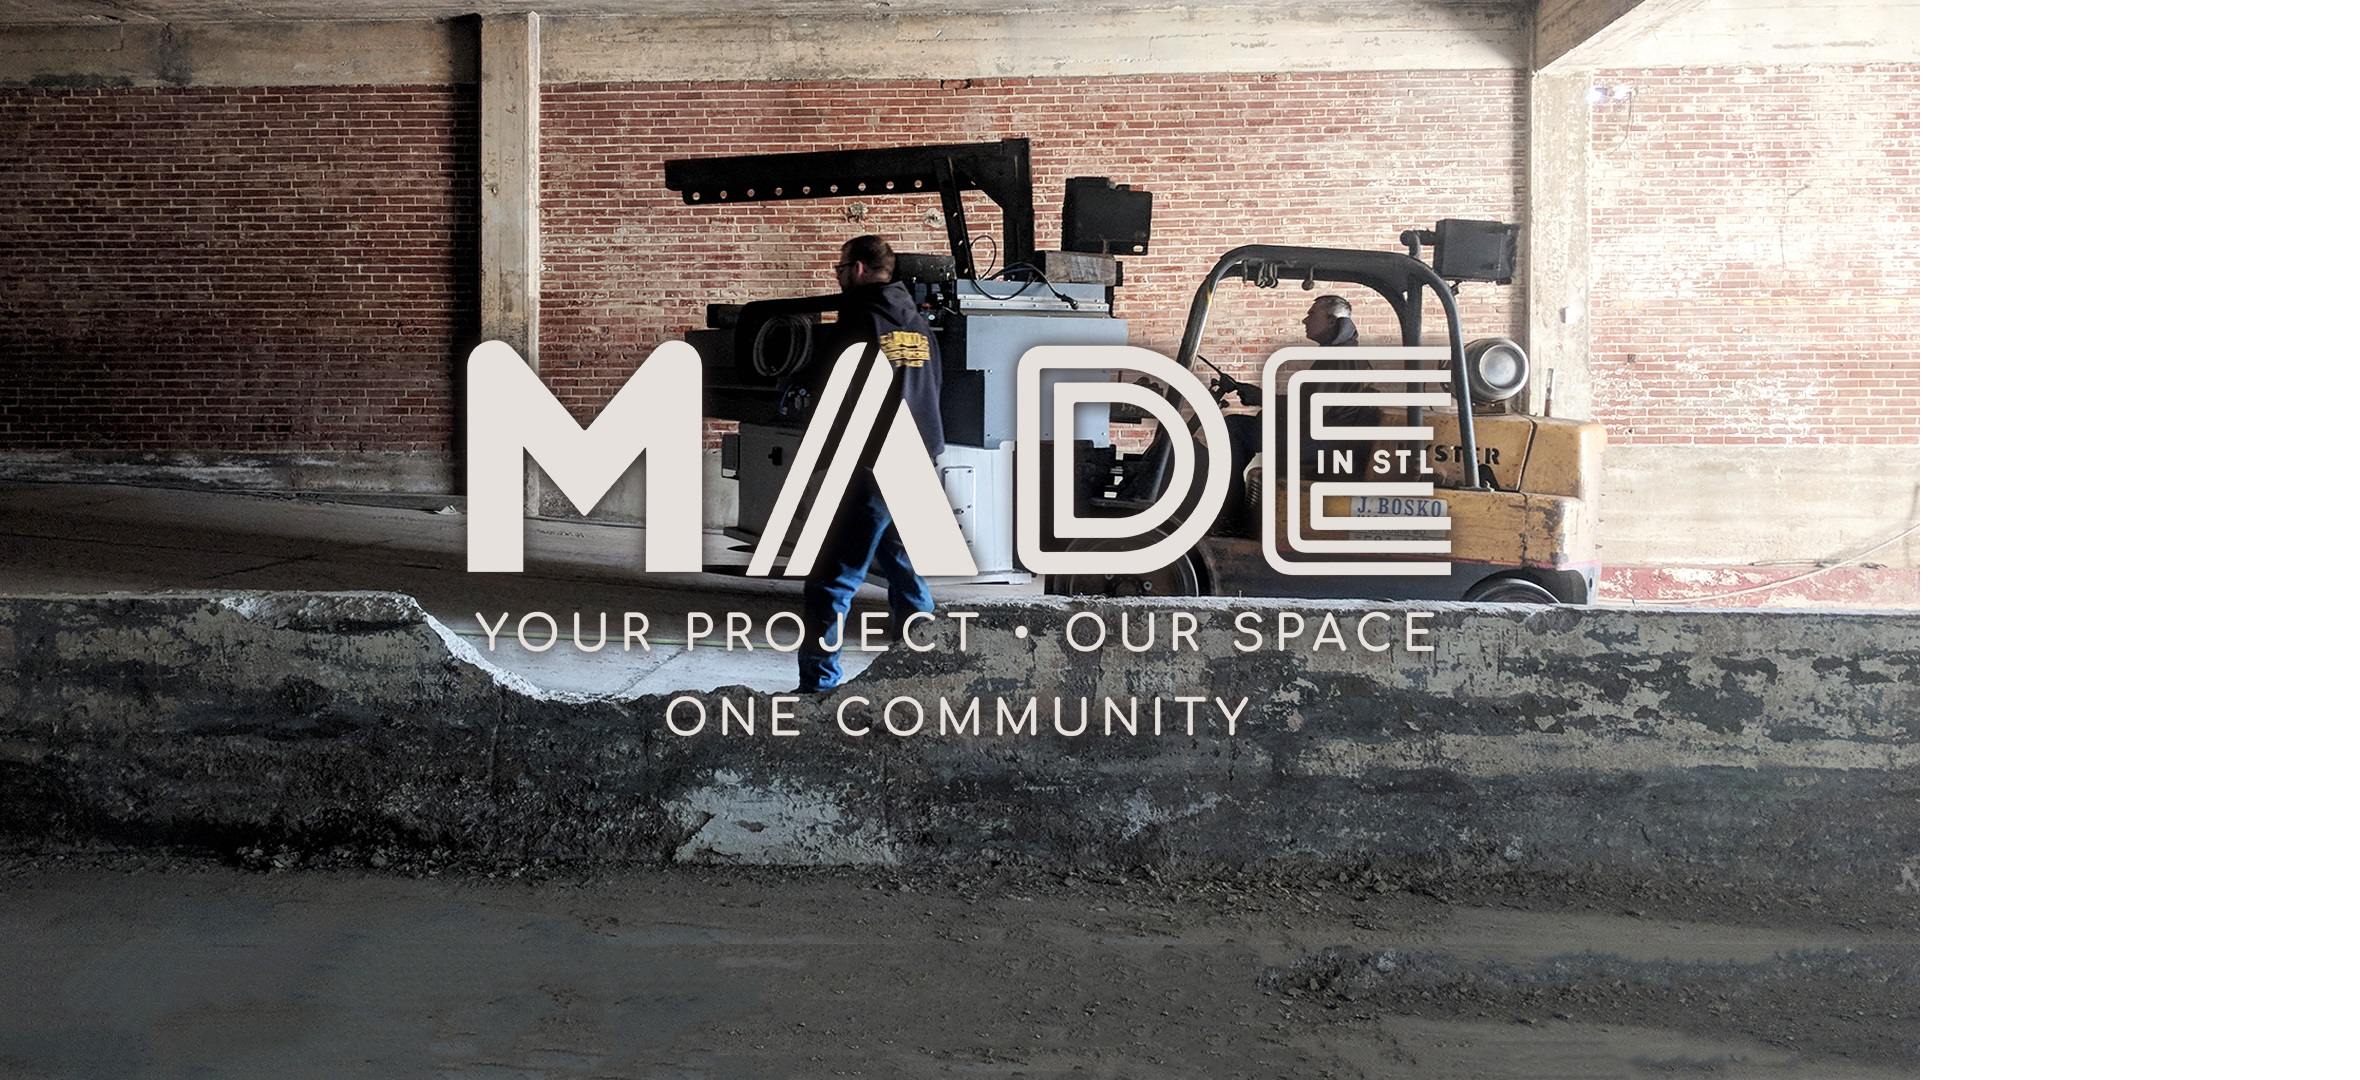
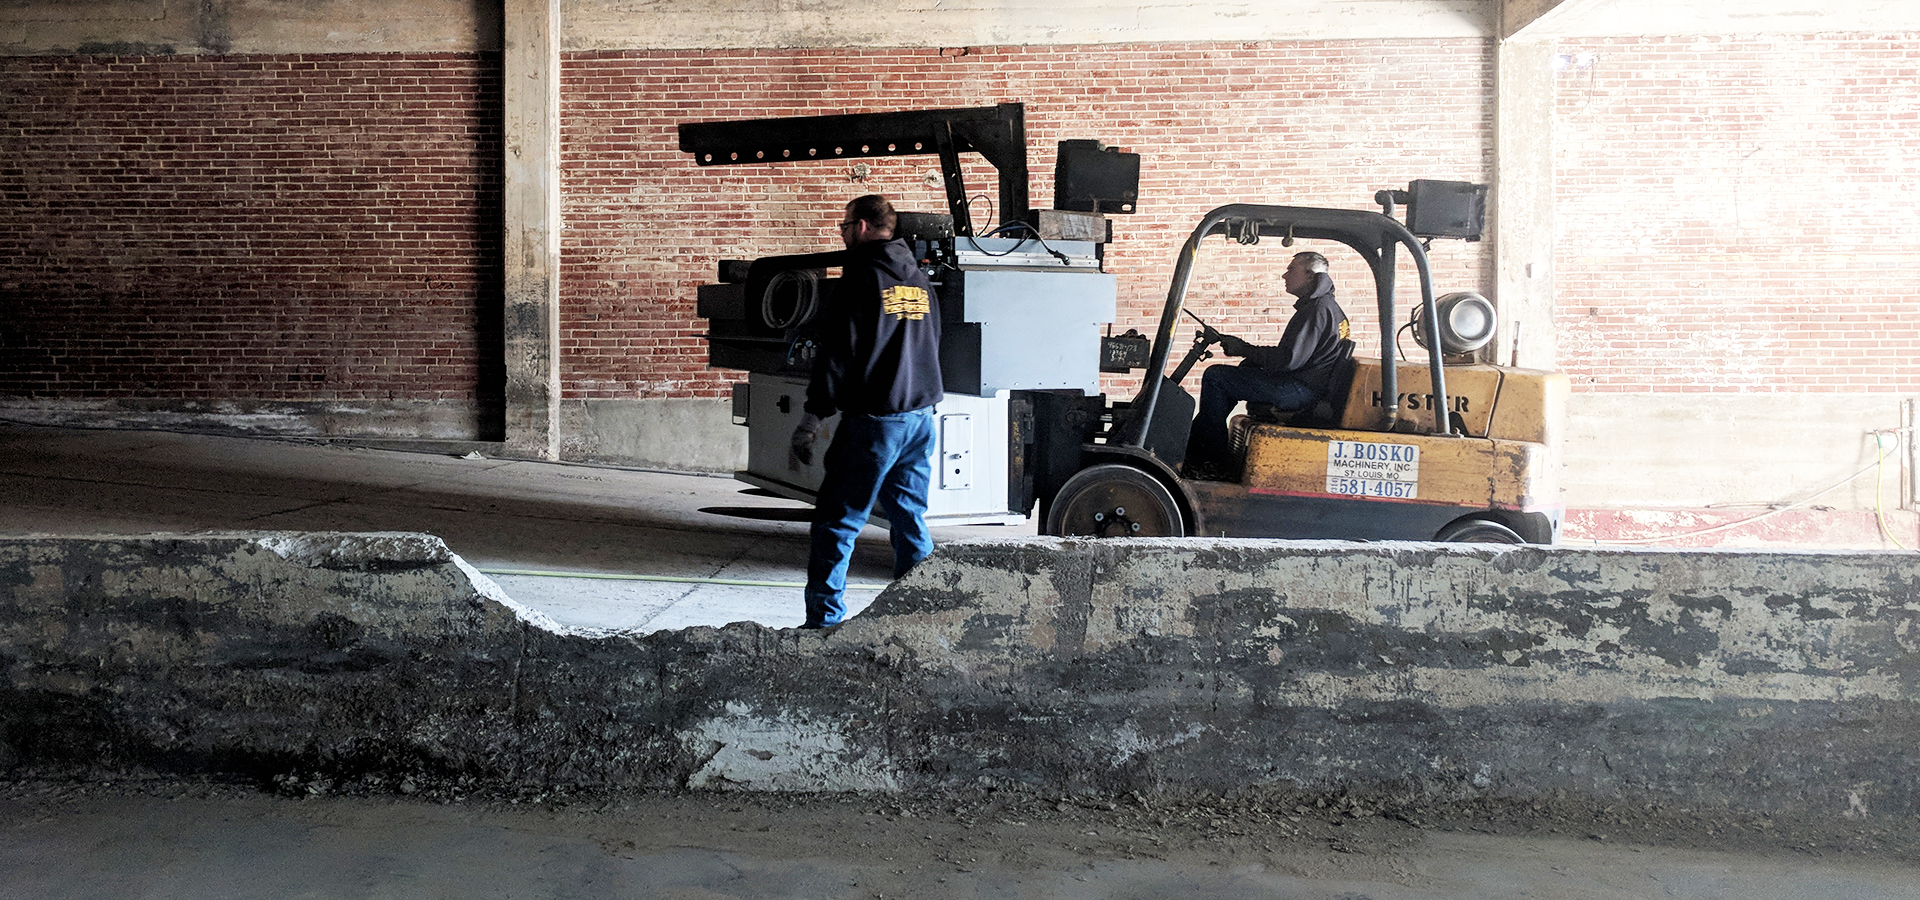
OHHHHH YAAAAA
You owe me 1 whole coffee

diff --git a/assets/js/main.js b/assets/js/main.js
@@ -1,174 +1,111 @@
 /*
-	Eventually by HTML5 UP
-	html5up.net | @ajlkn
-	Free for personal and commercial use under the CCA 3.0 license (html5up.net/license)
+  Eventually by HTML5 UP
+  html5up.net | @ajlkn
+  Free for personal and commercial use under the CCA 3.0 license (html5up.net/license)
 */
 
 (function() {
 
-	"use strict";
+  "use strict";
 
-	// Methods/polyfills.
+  // Methods/polyfills.
 
-		// classList | (c) @remy | github.com/remy/polyfills | rem.mit-license.org
-			!function(){function t(t){this.el=t;for(var n=t.className.replace(/^\s+|\s+$/g,"").split(/\s+/),i=0;i<n.length;i++)e.call(this,n[i])}function n(t,n,i){Object.defineProperty?Object.defineProperty(t,n,{get:i}):t.__defineGetter__(n,i)}if(!("undefined"==typeof window.Element||"classList"in document.documentElement)){var i=Array.prototype,e=i.push,s=i.splice,o=i.join;t.prototype={add:function(t){this.contains(t)||(e.call(this,t),this.el.className=this.toString())},contains:function(t){return-1!=this.el.className.indexOf(t)},item:function(t){return this[t]||null},remove:function(t){if(this.contains(t)){for(var n=0;n<this.length&&this[n]!=t;n++);s.call(this,n,1),this.el.className=this.toString()}},toString:function(){return o.call(this," ")},toggle:function(t){return this.contains(t)?this.remove(t):this.add(t),this.contains(t)}},window.DOMTokenList=t,n(Element.prototype,"classList",function(){return new t(this)})}}();
+    // classList | (c) @remy | github.com/remy/polyfills | rem.mit-license.org
+      !function(){function t(t){this.el=t;for(var n=t.className.replace(/^\s+|\s+$/g,"").split(/\s+/),i=0;i<n.length;i++)e.call(this,n[i])}function n(t,n,i){Object.defineProperty?Object.defineProperty(t,n,{get:i}):t.__defineGetter__(n,i)}if(!("undefined"==typeof window.Element||"classList"in document.documentElement)){var i=Array.prototype,e=i.push,s=i.splice,o=i.join;t.prototype={add:function(t){this.contains(t)||(e.call(this,t),this.el.className=this.toString())},contains:function(t){return-1!=this.el.className.indexOf(t)},item:function(t){return this[t]||null},remove:function(t){if(this.contains(t)){for(var n=0;n<this.length&&this[n]!=t;n++);s.call(this,n,1),this.el.className=this.toString()}},toString:function(){return o.call(this," ")},toggle:function(t){return this.contains(t)?this.remove(t):this.add(t),this.contains(t)}},window.DOMTokenList=t,n(Element.prototype,"classList",function(){return new t(this)})}}();
 
-		// canUse
-			window.canUse=function(p){if(!window._canUse)window._canUse=document.createElement("div");var e=window._canUse.style,up=p.charAt(0).toUpperCase()+p.slice(1);return p in e||"Moz"+up in e||"Webkit"+up in e||"O"+up in e||"ms"+up in e};
+    // canUse
+      window.canUse=function(p){if(!window._canUse)window._canUse=document.createElement("div");var e=window._canUse.style,up=p.charAt(0).toUpperCase()+p.slice(1);return p in e||"Moz"+up in e||"Webkit"+up in e||"O"+up in e||"ms"+up in e};
 
-		// window.addEventListener
-			(function(){if("addEventListener"in window)return;window.addEventListener=function(type,f){window.attachEvent("on"+type,f)}})();
+    // window.addEventListener
+      (function(){if("addEventListener"in window)return;window.addEventListener=function(type,f){window.attachEvent("on"+type,f)}})();
 
-	// Vars.
-		var	$body = document.querySelector('body');
+  // Vars.
+    var $body = document.querySelector('body');
 
-	// Disable animations/transitions until everything's loaded.
-		$body.classList.add('is-loading');
+  // Disable animations/transitions until everything's loaded.
+    $body.classList.add('is-loading');
 
-		window.addEventListener('load', function() {
-			window.setTimeout(function() {
-				$body.classList.remove('is-loading');
-			}, 100);
-		});
+    window.addEventListener('load', function() {
+      window.setTimeout(function() {
+        $body.classList.remove('is-loading');
+      }, 100);
+    });
 
-	// Slideshow Background.
-		(function() {
+  // Slideshow Background.
+    (function() {
 
-			// Settings.
-				var settings = {
+      // Settings.
+        var settings = {
 
-					// Images (in the format of 'url': 'alignment').
-						images: {
-							'images/Home1.jpg': 'center',
-							'images/Home2.jpg': 'center',
-							'images/Home3.jpg': 'center'
-						},
+          // Images (in the format of 'url': 'alignment').
+            images: {
+              'images/Home1.jpg': 'center',
+              'images/Home2.jpg': 'center',
+              'images/Home3.jpg': 'center'
+            },
 
-					// Delay.
-						delay: 6000
+          // Delay.
+            delay: 6000
 
-				};
+        };
 
-			// Vars.
-				var	pos = 0, lastPos = 0,
-					$wrapper, $bgs = [], $bg,
-					k, v;
+      // Vars.
+        var pos = 0, lastPos = 0,
+          $wrapper, $bgs = [], $bg,
+          k, v, $logo;
 
-			// Create BG wrapper, BGs.
-				$wrapper = document.createElement('div');
-					$wrapper.id = 'bg';
-					$body.appendChild($wrapper);
+      // Create BG wrapper, BGs.
+        $wrapper = document.createElement('div');
+          $wrapper.id = 'bg';
+          $body.appendChild($wrapper);
+          $logo = document.createElement('img');
+          $logo.src = "images/logo.png";
+          $body.appendChild($logo);
 
-				for (k in settings.images) {
+        for (k in settings.images) {
 
-					// Create BG.
-						$bg = document.createElement('div');
-							$bg.style.backgroundImage = 'url("' + k + '")';
-							$bg.style.backgroundPosition = settings.images[k];
-							$wrapper.appendChild($bg);
+          // Create BG.
+            $bg = document.createElement('div');
+              $bg.style.backgroundImage = 'url("' + k + '")';
+              $bg.style.backgroundPosition = settings.images[k];
 
-					// Add it to array.
-						$bgs.push($bg);
 
-				}
+              $wrapper.appendChild($bg);
 
-			// Main loop.
-				$bgs[pos].classList.add('visible');
-				$bgs[pos].classList.add('top');
+          // Add it to array.
+            $bgs.push($bg);
 
-				// Bail if we only have a single BG or the client doesn't support transitions.
-					if ($bgs.length == 1
-					||	!canUse('transition'))
-						return;
+        }
 
-				window.setInterval(function() {
+      // Main loop.
+        $bgs[pos].classList.add('visible');
+        $bgs[pos].classList.add('top');
 
-					lastPos = pos;
-					pos++;
+        // Bail if we only have a single BG or the client doesn't support transitions.
+          if ($bgs.length == 1
+          ||  !canUse('transition'))
+            return;
 
-					// Wrap to beginning if necessary.
-						if (pos >= $bgs.length)
-							pos = 0;
+        window.setInterval(function() {
 
-					// Swap top images.
-						$bgs[lastPos].classList.remove('top');
-						$bgs[pos].classList.add('visible');
-						$bgs[pos].classList.add('top');
+          lastPos = pos;
+          pos++;
 
-					// Hide last image after a short delay.
-						window.setTimeout(function() {
-							$bgs[lastPos].classList.remove('visible');
-						}, settings.delay / 2);
+          // Wrap to beginning if necessary.
+            if (pos >= $bgs.length)
+              pos = 0;
 
-				}, settings.delay);
+          // Swap top images.
+            $bgs[lastPos].classList.remove('top');
+            $bgs[pos].classList.add('visible');
+            $bgs[pos].classList.add('top');
 
-		})();
+          // Hide last image after a short delay.
+            window.setTimeout(function() {
+              $bgs[lastPos].classList.remove('visible');
+            }, settings.delay / 2);
 
-	// Signup Form.
-		(function() {
+        }, settings.delay);
 
-			// Vars.
-				var $form = document.querySelectorAll('#signup-form')[0],
-					$submit = document.querySelectorAll('#signup-form input[type="submit"]')[0],
-					$message;
-
-			// Bail if addEventListener isn't supported.
-				if (!('addEventListener' in $form))
-					return;
-
-			// Message.
-				$message = document.createElement('span');
-					$message.classList.add('message');
-					$form.appendChild($message);
-
-				$message._show = function(type, text) {
-
-					$message.innerHTML = text;
-					$message.classList.add(type);
-					$message.classList.add('visible');
-
-					window.setTimeout(function() {
-						$message._hide();
-					}, 3000);
-
-				};
-
-				$message._hide = function() {
-					$message.classList.remove('visible');
-				};
-
-			// Events.
-			// Note: If you're *not* using AJAX, get rid of this event listener.
-				$form.addEventListener('submit', function(event) {
-
-					event.stopPropagation();
-					event.preventDefault();
-
-					// Hide message.
-						$message._hide();
-
-					// Disable submit.
-						$submit.disabled = true;
-
-					// Process form.
-					// Note: Doesn't actually do anything yet (other than report back with a "thank you"),
-					// but there's enough here to piece together a working AJAX submission call that does.
-						window.setTimeout(function() {
-
-							// Reset form.
-								$form.reset();
-
-							// Enable submit.
-								$submit.disabled = false;
-
-							// Show message.
-								$message._show('success', 'Thank you!');
-								//$message._show('failure', 'Something went wrong. Please try again.');
-
-						}, 750);
-
-				});
-
-		})();
-
+    })();
 })();

diff --git a/index.html b/index.html
@@ -10,9 +10,10 @@
 
     <!-- Header -->
       <header id="header">
-        <img src="images/headerimg.png" style= "width: 5%; height: 5%"></img>
+        <div style = "height: 9%; background-color: #e6e1dc; opacity: .5"> 
+          <img src="images/headerimg.png" onContextMenu= "return false;" onDragStart="return false;" style= "width: 5%; height: 5%"></img>
+        </div>
       </header>
-
     <!-- Footer -->
       <footer id="footer">
         <ul class="icons">

diff --git a/assets/css/main.css b/assets/css/main.css
@@ -155,7 +155,7 @@
 		transition: opacity 2s ease-in-out;
 		height: 100%;
 		left: 0;
-		opacity: 0.25;
+		opacity: 1;
 		position: fixed;
 		top: 0;
 		width: 100%;
